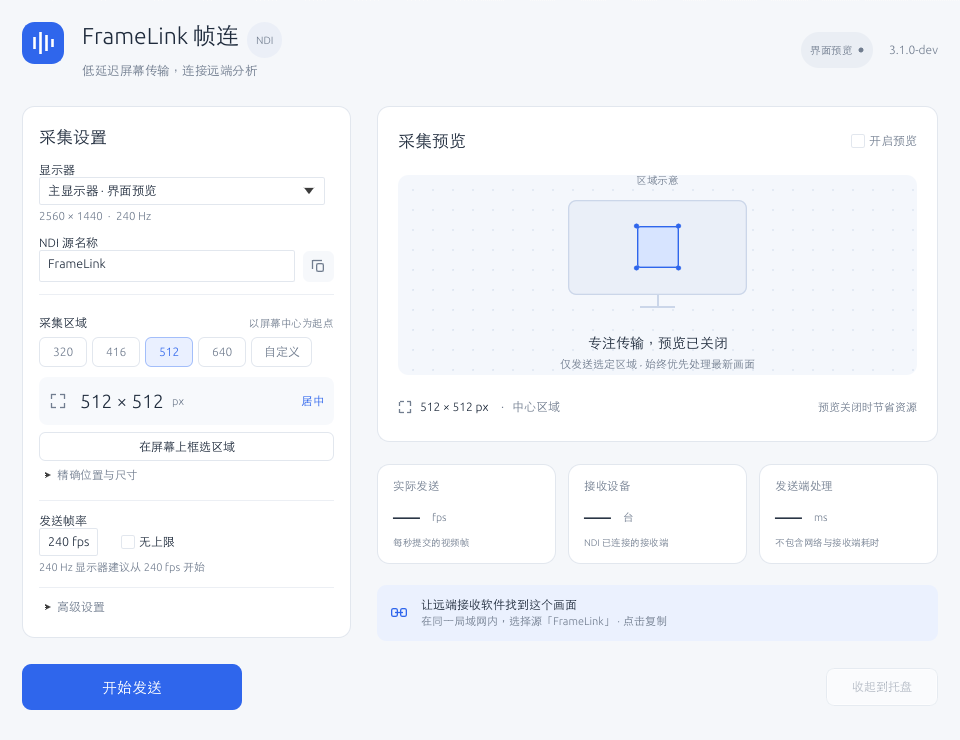
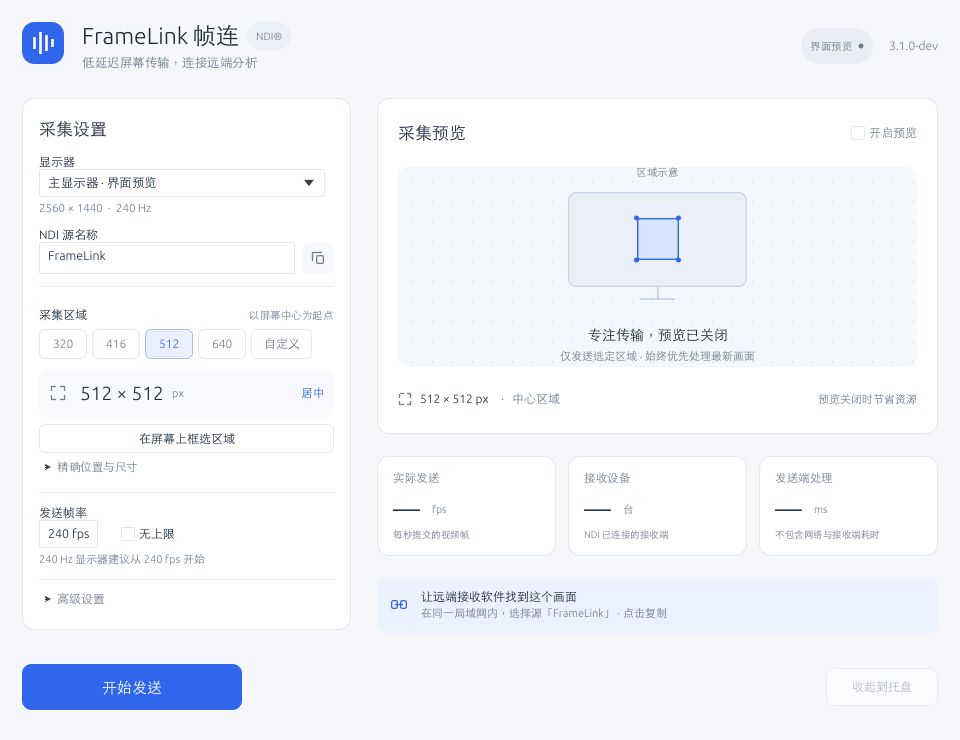
Bundle the official macOS NDI runtime by default

diff --git a/tools/fetch_ndi_macos.py b/tools/fetch_ndi_macos.py
@@ -1,0 +1,136 @@
+#!/usr/bin/env python3
+"""Fetch the pinned official macOS NDI redistributable without installing it."""
+
+from __future__ import annotations
+
+import argparse
+import hashlib
+import json
+import os
+from pathlib import Path
+import shutil
+import subprocess
+import tempfile
+import xml.etree.ElementTree as ET
+
+
+RUNTIME_URL = "https://ndi.link/NDIRedistV6Apple"
+PACKAGE_URL = "https://downloads.ndi.tv/SDK/NDI_SDK_Mac/libNDI_for_Mac.pkg"
+PACKAGE_VERSION = "6.3.2.0.260413"
[3 lines of base64/hex data omitted]
+INSTALLER_IDENTITY = "Developer ID Installer: NewTek, Inc. (W8U66ET244)"
+
+
+def sha256(path: Path) -> str:
+    digest = hashlib.sha256()
+    with path.open("rb") as source:
+        for block in iter(lambda: source.read(1024 * 1024), b""):
+            digest.update(block)
+    return digest.hexdigest()
+
+
+def require_digest(path: Path, expected: str) -> None:
+    actual = sha256(path)
+    if actual != expected:
+        raise ValueError(
+            f"SHA-256 mismatch for {path.name}: expected {expected}, found {actual}. "
+            "The pinned NDI runtime must be reviewed before accepting a new download."
+        )
+
+
+def write_metadata(destination: Path, work: Path, license_source: Path) -> None:
+    """Replace complete files only; never expose a partially downloaded runtime."""
+    license_copy = work / "libndi_licenses.txt"
+    shutil.copy2(license_source, license_copy)
+    source = {
+        "url": RUNTIME_URL,
+        "package_url": PACKAGE_URL,
+        "package_sha256": PACKAGE_SHA256,
+        "dylib_sha256": DYLIB_SHA256,
+        "version": PACKAGE_VERSION,
+        "installer_identity": INSTALLER_IDENTITY,
+        "licenses_source": "libNDIComponent.pkg/Payload/libndi_licenses.txt",
+        "licenses_sha256": LICENSE_SHA256,
+        "repository_license": "Processing.NDI.Lib.Licenses.txt",
+    }
+    manifest = work / "source.json"
+    manifest.write_text(json.dumps(source, indent=2) + "\n", encoding="utf-8")
+    os.replace(license_copy, destination / license_copy.name)
+    os.replace(manifest, destination / manifest.name)
+
+
+def ensure_runtime(root: Path, package: Path | None = None) -> Path:
+    """Return a verified app-local libndi.dylib, fetching it when absent or invalid.
+
+    A supplied package is verified and extracted just like the downloaded package.
+    The installer is never executed and no system-wide directories are changed.
+    """
+    root = root.resolve()
+    destination = root / "runtime/macos"
+    runtime = destination / "libndi.dylib"
+    repository_license = root / "Processing.NDI.Lib.Licenses.txt"
+    require_digest(repository_license, LICENSE_SHA256)
+    destination.mkdir(parents=True, exist_ok=True)
+    with tempfile.TemporaryDirectory(prefix=".ndi-fetch-", dir=destination) as temporary:
+        work = Path(temporary)
+        if package is None and runtime.is_file() and sha256(runtime) == DYLIB_SHA256:
+            write_metadata(destination, work, repository_license)
+            return runtime
+        for command in ("pkgutil", "curl") if package is None else ("pkgutil",):
+            if shutil.which(command) is None:
+                raise RuntimeError(f"Required macOS runtime preparation tool is unavailable: {command}")
+        if package is None:
+            package = work / "libNDI_for_Mac.pkg"
+            subprocess.run([
+                "curl", "--fail", "--location", "--proto", "=https",
+                "--proto-redir", "=https", "--connect-timeout", "20",
+                "--max-time", "180", "--retry", "3", "--retry-delay", "2",
+                "--output", str(package), RUNTIME_URL,
+            ], check=True)
+        else:
+            package = package.expanduser().resolve()
+            if not package.is_file():
+                raise FileNotFoundError(f"NDI package does not exist: {package}")
+        require_digest(package, PACKAGE_SHA256)
+        signature = subprocess.run(
+            ["pkgutil", "--check-signature", str(package)],
+            check=True, capture_output=True, text=True,
+        ).stdout
+        if INSTALLER_IDENTITY not in signature:
+            raise ValueError("The NDI package was not signed by the expected NewTek installer identity")
+        expanded = work / "expanded"
+        subprocess.run(["pkgutil", "--expand-full", str(package), str(expanded)], check=True)
+        component = expanded / "libNDIComponent.pkg"
+        version = ET.parse(component / "PackageInfo").getroot().get("version")
+        if version != PACKAGE_VERSION:
+            raise ValueError(f"Unexpected NDI package version: {version}")
+        payload = component / "Payload"
+        dylib = payload / "libndi.dylib"
+        license_source = payload / "libndi_licenses.txt"
+        require_digest(dylib, DYLIB_SHA256)
+        require_digest(license_source, LICENSE_SHA256)
+        if license_source.read_bytes() != repository_license.read_bytes():
+            raise ValueError("The NDI redistributable licenses differ from the repository notice")
+        # Copy the vendor-signed bytes unchanged; app packaging must not re-sign it.
+        staged_runtime = work / "libndi.dylib"
+        shutil.copy2(dylib, staged_runtime)
+        write_metadata(destination, work, license_source)
+        os.replace(staged_runtime, runtime)
+    return runtime
+
+
+def main() -> None:
+    parser = argparse.ArgumentParser(description=__doc__)
+    parser.add_argument("--package", type=Path, help="Use an already downloaded official .pkg")
+    args = parser.parse_args()
+    try:
+        runtime = ensure_runtime(Path(__file__).resolve().parents[1], args.package)
+    except (OSError, ValueError, subprocess.CalledProcessError) as error:
+        parser.exit(1, f"NDI runtime preparation failed: {error}\n")
+    print(runtime)
+
+
+if __name__ == "__main__":
+    main()

diff --git a/tools/build_macos.py b/tools/build_macos.py
@@ -13,6 +13,7 @@ import shutil
 import subprocess
 import tempfile
 import zipfile
+from fetch_ndi_macos import ensure_runtime
 
 
 TARGETS = {
@@ -123,7 +124,9 @@ def main():
     parser = argparse.ArgumentParser(description=__doc__)
     parser.add_argument("--target", choices=TARGETS, default=default_target)
     parser.add_argument("--skip-build", action="store_true", help="Package an existing release build for the selected target")
-    parser.add_argument("--ndi-runtime", type=Path, help="Absolute path to a redistributable libndi.dylib (optional)")
+    ndi_options = parser.add_mutually_exclusive_group()
+    ndi_options.add_argument("--ndi-runtime", type=Path, help="Use this redistributable libndi.dylib instead of the pinned official runtime")
+    ndi_options.add_argument("--without-ndi", action="store_true", help="Build a UI-only package without the NDI runtime")
     args = parser.parse_args()
     if platform.system() != "Darwin":
         parser.error("macOS packaging requires macOS and the Xcode command-line tools")
@@ -131,7 +134,7 @@ def main():
         if shutil.which(command) is None:
             parser.error(f"Required tool is unavailable: {command}")
     architecture, label = TARGETS[args.target]
-    runtime = args.ndi_runtime
+    runtime = None if args.without_ndi else (args.ndi_runtime or ensure_runtime(root))
     if runtime is not None:
         if not runtime.is_absolute() or not runtime.is_file():
             parser.error("--ndi-runtime must name an existing dylib by its absolute path")
@@ -151,6 +154,7 @@ def main():
         root / "Cargo.toml", root / "Cargo.lock", root / ".cargo/config.toml",
         *[path for path in (root / "resources").rglob("*") if path.is_file()],
         Path(__file__).resolve(),
+        root / "tools/fetch_ndi_macos.py",
     })
     if args.skip_build:
         newer = [path.relative_to(root).as_posix() for path in source_files
@@ -181,6 +185,10 @@ def main():
         shutil.copy2(executable, bundled_executable)
         bundled_executable.chmod(0o755)
         make_icon(root / "resources/app.ico", resources / "app.icns", work)
+        notices = resources / "Licenses"
+        notices.mkdir()
+        for name in ("NDI License Agreement.pdf", "Processing.NDI.Lib.Licenses.txt"):
+            shutil.copy2(root / name, notices / name)
         info = {
             "CFBundleIdentifier": "com.framelink.app",
             "CFBundleName": "FrameLink",
@@ -204,7 +212,12 @@ def main():
             frameworks.mkdir()
             bundled_runtime = frameworks / "libndi.dylib"
             shutil.copy2(runtime, bundled_runtime)
-            run("codesign", "--force", "--sign", "-", "--timestamp=none", str(bundled_runtime))
+            # Keep a valid vendor signature. Only unsigned custom runtimes need
+            # an ad-hoc signature before sealing the containing application.
+            signed = subprocess.run(["codesign", "--verify", "--strict", str(bundled_runtime)],
+                                    stdout=subprocess.DEVNULL, stderr=subprocess.DEVNULL)
+            if signed.returncode:
+                run("codesign", "--force", "--sign", "-", "--timestamp=none", str(bundled_runtime))
         run("codesign", "--force", "--sign", "-", "--timestamp=none", str(app))
         run("codesign", "--verify", "--deep", "--strict", str(app))
         copy_notices(root, staging, metadata)
@@ -236,10 +249,10 @@ def main():
             json.dumps(build_info, indent=2, ensure_ascii=False) + "\n", encoding="utf-8"
         )
         runtime_note = (
-            "包内已包含指定的 NDI 运行库。"
+            "包内已内置 NDI 运行库，无需另行安装。"
             if runtime is not None else
             "包内未包含 NDI 运行库。发送视频前，需安装对应架构的 NDI Runtime，\n"
-            "或构建时通过 --ndi-runtime 指定可分发的 libndi.dylib。"
+            "或去掉 --without-ndi 重新构建完整包。"
         )
         (staging / "使用说明.txt").write_text(
             f"FrameLink 帧连 {version}\n\n"

diff --git a/rust/ndi.rs b/rust/ndi.rs
@@ -56,23 +56,25 @@ mod runtime {
     type SourceName = unsafe extern "C" fn(*mut c_void) -> *const Source;
 
     #[cfg(windows)]
-    fn load_library() -> Result<Library, String> {
+    fn load_library() -> Result<(Library, std::path::PathBuf), String> {
         let exe = std::env::current_exe().map_err(|e| format!("无法获取程序路径：{e}"))?;
         let path = exe
             .parent()
             .ok_or("无法获取程序目录")?
             .join("Processing.NDI.Lib.x64.dll");
         // Keep the Windows runtime beside the executable, outside DLL search paths.
-        unsafe { Library::new(&path) }.map_err(|e| {
-            format!(
-                "无法加载 {}。请将NDI运行库放在EXE旁，并安装VC++ x64运行库。{e}",
-                path.display()
-            )
-        })
+        unsafe { Library::new(&path) }
+            .map(|library| (library, path.clone()))
+            .map_err(|e| {
+                format!(
+                    "无法加载 {}。请将NDI运行库放在EXE旁，并安装VC++ x64运行库。{e}",
+                    path.display()
+                )
+            })
     }
 
     #[cfg(target_os = "macos")]
-    fn load_library() -> Result<Library, String> {
+    fn load_library() -> Result<(Library, std::path::PathBuf), String> {
         let exe = std::env::current_exe().map_err(|e| format!("无法获取程序路径：{e}"))?;
         let override_path = std::env::var_os("FRAMELINK_NDI_RUNTIME");
         let candidates = super::macos_runtime_paths(&exe, override_path.as_deref())?;
@@ -81,12 +83,12 @@ mod runtime {
             // All candidates are absolute. Never search the working directory or
             // depend on DYLD_LIBRARY_PATH when launched from Finder.
             match unsafe { Library::new(&path) } {
-                Ok(library) => return Ok(library),
+                Ok(library) => return Ok((library, path)),
                 Err(error) => failures.push(format!("{}：{error}", path.display())),
             }
         }
         Err(format!(
-            "无法加载 macOS NDI 运行库。请安装 NDI Runtime，或将 libndi.dylib 放入应用的 Contents/Frameworks；也可用 FRAMELINK_NDI_RUNTIME 指定绝对路径。\n{}",
+            "无法加载 macOS NDI 运行库。请重新解压包含运行库的完整 FrameLink 包；开发环境也可用 FRAMELINK_NDI_RUNTIME 指定绝对路径。\n{}",
             failures.join("\n")
         ))
     }
@@ -94,6 +96,7 @@ mod runtime {
     pub struct Ndi {
         // Function pointers remain valid because this library outlives every sender.
         _library: Library,
+        runtime_path: std::path::PathBuf,
         destroy: Destroy,
         version: Version,
         create: SendCreate,
@@ -104,7 +107,7 @@ mod runtime {
     }
     impl Ndi {
         pub fn load() -> Result<Self, String> {
-            let library = load_library()?;
+            let (library, runtime_path) = load_library()?;
             unsafe fn symbol<T: Copy>(lib: &Library, name: &[u8]) -> Result<T, String> {
                 unsafe { lib.get::<T>(name) }.map(|f| *f).map_err(|e| {
                     format!(
@@ -132,6 +135,7 @@ mod runtime {
             }
             Ok(Self {
                 _library: library,
+                runtime_path,
                 destroy,
                 version,
                 create,
@@ -143,6 +147,9 @@ mod runtime {
         }
         pub fn version(&self) -> String {
             string(unsafe { (self.version)() })
+        }
+        pub fn runtime_path(&self) -> &std::path::Path {
+            &self.runtime_path
         }
         pub fn create_sender(&self, name: &str) -> Result<Sender<'_>, String> {
             let name = CString::new(name).map_err(|_| "源名称含有空字符")?;

diff --git a/rust/main.rs b/rust/main.rs
@@ -27,6 +27,30 @@ fn main() {
 }
 fn run() -> Result<(), String> {
     let args: Vec<_> = std::env::args().skip(1).collect();
+    if args.first().is_some_and(|value| value == "--check-ndi") {
+        if args.len() != 1 {
+            return Err("用法：FrameLink --check-ndi".into());
+        }
+        #[cfg(any(windows, target_os = "macos"))]
+        {
+            let ndi = framelink::ndi::Ndi::load()?;
+            println!(
+                "{}",
+                serde_json::to_string_pretty(&serde_json::json!({
+                    "runtime_path": ndi.runtime_path(),
+                    "runtime_version": ndi.version(),
+                    "initialized": true,
+                    "scope": "runtime_initialization_only",
+                    "screen_capture": false,
+                    "video_sent": false,
+                }))
+                .map_err(|error| error.to_string())?
+            );
+            return Ok(());
+        }
+        #[cfg(not(any(windows, target_os = "macos")))]
+        return Err("当前平台不支持NDI运行库检查".into());
+    }
     if args
         .first()
         .is_some_and(|value| value == "--benchmark-pixels")

diff --git a/rust/ui.rs b/rust/ui.rs
@@ -270,7 +270,17 @@ impl DesktopApp {
                             .strong()
                             .color(INK),
                     );
-                    pill(ui, "NDI", Color32::from_rgb(235, 239, 247), MUTED, false);
+                    egui::Frame::new()
+                        .fill(Color32::from_rgb(235, 239, 247))
+                        .corner_radius(20.0)
+                        .inner_margin(egui::Margin::symmetric(9, 4))
+                        .show(ui, |ui| {
+                            ui.hyperlink_to(
+                                RichText::new("NDI®").size(10.5).color(MUTED),
+                                "https://ndi.video/",
+                            )
+                            .on_hover_text("NDI® is a registered trademark of Vizrt NDI AB");
+                        });
                 });
                 ui.label(
                     RichText::new("低延迟屏幕传输，连接远端分析")
